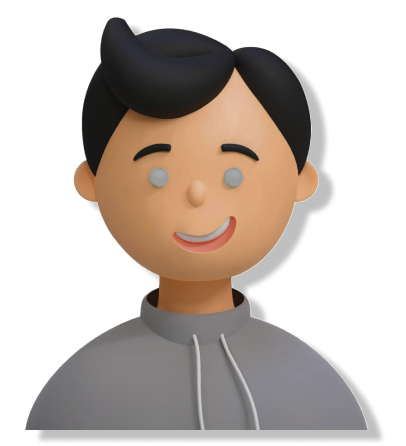
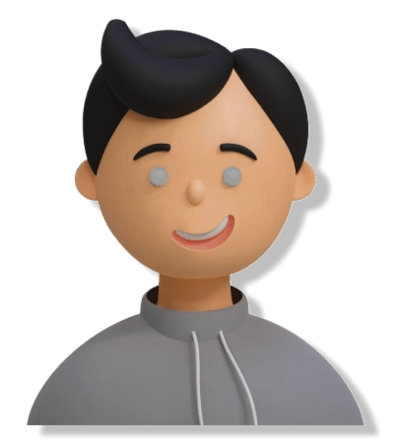
more components/refactorifng

diff --git a/src/components/TechStack.tsx b/src/components/TechStack.tsx
@@ -1,28 +1,12 @@
 "use client";
 
-import {
-  bunJs,
-  code,
-  css,
-  docker,
-  express,
-  git,
-  github2,
-  golang,
-  graphql,
-  html,
-  js,
-  mongodb,
-  nextjs,
-  nodejs,
-  postgres,
-  prisma,
-  react,
-  sass,
-  solidity,
-  tools,
-} from "@/assets";
+import { code, html, tools } from "@/assets";
 import Card from "./Card";
+import { techStack } from "@/data/techStack";
+import { P } from "./ui/P";
+import { Heading } from "./ui/Heading";
+import { Row } from "./ui/Row";
+import Line from "./ui/Line";
 
 function TechStack() {
   return (
@@ -31,55 +15,26 @@ function TechStack() {
         className="h-screen dark:bg-primary-dark bg-primary-light pb-20"
         id="tech-stack"
       >
-        <div className="text-center py-24">
-          <p className="dark:text-secondary-dark text-secondary-light">
+        <div className="py-24">
+          <P theme={"secondary"} align={"center"}>
             Some of my
-          </p>
-          <h1 className="text-[48px] font-[800] leading-normal tracking-[4.8px]">
+          </P>
+          <Heading letterGap={"xl"} align={"center"}>
             TECH STACK
-          </h1>
+          </Heading>
         </div>
 
-        <div className="flex justify-around items-center gap-24 w-[75vw] mx-auto">
+        <Row justify={"center"} align={"center"} gap={"3xl"}>
           <Card
             name="Front End"
             mainIcon={html.src}
-            icons={[
-              { icon: html.src, name: "HTML" },
-              { icon: css.src, name: "CSS" },
-              { icon: sass.src, name: "Sass" },
-              { icon: js.src, name: "JS (TS)" },
-              { icon: react.src, name: "React" },
-              { icon: nextjs.src, name: "Nextjs" },
-            ]}
+            icons={techStack.frontEnd}
           />
-          <Card
-            name="Back End"
-            mainIcon={code.src}
-            icons={[
-              { icon: nodejs.src, name: "Node" },
-              { icon: express.src, name: "Express" },
-              { icon: prisma.src, name: "Prisma" },
-              { icon: graphql.src, name: "Graphql" },
-              { icon: postgres.src, name: "Postgres" },
-              { icon: mongodb.src, name: "MongoDB" },
-            ]}
-          />
-          <Card
-            name="Other"
-            mainIcon={tools.src}
-            icons={[
-              { icon: git.src, name: "Git" },
-              { icon: github2.src, name: "Github" },
-              { icon: docker.src, name: "Docker" },
-              { icon: bunJs.src, name: "Bunjs" },
-              { icon: solidity.src, name: "Solidity" },
-              { icon: golang.src, name: "Golang" },
-            ]}
-          />
-        </div>
+          <Card name="Back End" mainIcon={code.src} icons={techStack.backEnd} />
+          <Card name="Other" mainIcon={tools.src} icons={techStack.other} />
+        </Row>
       </section>
-      <div className="w-screen h-[1px] dark:bg-line-dark bg-line-light" />
+      <Line />
     </>
   );
 }

diff --git a/src/components/About.tsx b/src/components/About.tsx
@@ -3,6 +3,10 @@
 import { meDark, meLight, waveLight, waveDark } from "@/assets";
 import { useThemeContext } from "@/context";
 import { motion } from "framer-motion";
+import { Row } from "./ui/Row";
+import { P } from "./ui/P";
+import { Heading } from "./ui/Heading";
+import Line from "./ui/Line";
 
 function About() {
   const { isDark } = useThemeContext();
@@ -18,7 +22,7 @@ function About() {
           className="w-screen"
           alt="wave"
         />
-        <div className="flex justify-center items-center gap-44">
+        <Row justify={"center"} align={"center"} gap={"3xl"}>
           <motion.div
             initial={{ x: -50, opacity: 0.5 }}
             whileInView={{ x: 0, opacity: 1 }}
@@ -33,30 +37,24 @@ function About() {
             viewport={{ once: true }}
             transition={{ duration: 0.6, delay: 0.2 }}
           >
-            <div className="flex flex-col max-w-[25vw]">
-              <p className="dark:text-secondary-dark text-secondary-light">
-                A little bit
-              </p>
-              <h1 className="text-[48px] font-[800] leading-normal tracking-[4.8px]">
-                ABOUT ME
-              </h1>
-              <p className="dark:text-secondary-dark text-secondary-light">
-                Front-end/back-end developer
-              </p>
+            <Row direction="col" className="max-w-[25vw]">
+              <P theme={"secondary"}>A little bit</P>
+              <Heading letterGap={"xl"}>ABOUT ME</Heading>
+              <P theme={"secondary"}>Front-end/back-end developer</P>
               <br />
-              <p className="text-[20px]">
+              <P size={"xl"}>
                 Lorem ipsum dolor sit amet consectetur adipisicing elit. Fugiat
                 nihil possimus voluptatibus vel. At, id magni, et non asperiores
                 laborum assumenda aliquid blanditiis iusto consectetur, soluta
                 quo nobis totam magnam.
                 <br />
                 Lorem ipsum dolor sit amet consectetur
-              </p>
-            </div>
+              </P>
+            </Row>
           </motion.div>
-        </div>
+        </Row>
       </section>
-      <div className="w-screen h-[1px] dark:bg-line-dark bg-line-light" />
+      <Line />
     </>
   );
 }

diff --git a/src/data/techStack.ts b/src/data/techStack.ts
@@ -1,0 +1,47 @@
+import {
+  bunJs,
+  css,
+  docker,
+  express,
+  git,
+  github2,
+  golang,
+  graphql,
+  html,
+  js,
+  mongodb,
+  nextjs,
+  nodejs,
+  postgres,
+  prisma,
+  react,
+  sass,
+  solidity,
+} from "@/assets";
+
+export const techStack = {
+  frontEnd: [
+    { icon: html.src, name: "HTML" },
+    { icon: css.src, name: "CSS" },
+    { icon: sass.src, name: "Sass" },
+    { icon: js.src, name: "JS (TS)" },
+    { icon: react.src, name: "React" },
+    { icon: nextjs.src, name: "Nextjs" },
+  ],
+  backEnd: [
+    { icon: nodejs.src, name: "Node" },
+    { icon: express.src, name: "Express" },
+    { icon: prisma.src, name: "Prisma" },
+    { icon: graphql.src, name: "Graphql" },
+    { icon: postgres.src, name: "Postgres" },
+    { icon: mongodb.src, name: "MongoDB" },
+  ],
+  other: [
+    { icon: git.src, name: "Git" },
+    { icon: github2.src, name: "Github" },
+    { icon: docker.src, name: "Docker" },
+    { icon: bunJs.src, name: "Bunjs" },
+    { icon: solidity.src, name: "Solidity" },
+    { icon: golang.src, name: "Golang" },
+  ],
+};

diff --git a/src/styles/Home.scss b/src/styles/Home.scss
@@ -1,29 +1,29 @@
 #home {
-    .leftEye, .rightEye{
-        position: absolute;
-        border-radius: 50%;
-        height: 5%;
-        width: 5%;
-        &::after {
-            position: absolute;
-            left: 0;
-            top: 50%;
-            transform: translate(0, -50%);
-            width: 30%;
-            height: 30%;
-            background: #000;
-            border-radius: 50%;
-            content: " ";
-        }
+  .leftEye,
+  .rightEye {
+    position: absolute;
+    border-radius: 50%;
+    height: 5%;
+    width: 5%;
+    &::after {
+      position: absolute;
+      left: 0;
+      top: 50%;
+      transform: translate(0, -50%);
+      width: 30%;
+      height: 30%;
+      background: #000;
+      border-radius: 50%;
+      content: " ";
     }
+  }
 
-    .leftEye {
-        left: 36%;
-        top: 37%;
-    }
-    .rightEye {
-        right: 40%;
-        top: 37%;
-    }
-
+  .leftEye {
+    left: 37%;
+    top: 38%;
+  }
+  .rightEye {
+    right: 40%;
+    top: 38%;
+  }
 }

diff --git a/src/components/Home.tsx b/src/components/Home.tsx
@@ -8,6 +8,7 @@ import { useEffect } from "react";
 import { P } from "./ui/P";
 import { Heading } from "./ui/Heading";
 import { Row } from "./ui/Row";
+import Link from "next/link";
 
 function Home() {
   const { isDark } = useThemeContext();
@@ -45,9 +46,11 @@ function Home() {
               <br />A young full-stack developer from Italy
             </P>
 
-            <button className="dark:bg-secondary-dark bg-secondary-light text-2xl text-black py-4 px-12 rounded-lg">
-              About Me
-            </button>
+            <Link href={"#about"}>
+              <button className="dark:bg-secondary-dark bg-secondary-light text-2xl text-black py-4 px-12 rounded-lg">
+                About Me
+              </button>
+            </Link>
           </Row>
 
           <div className="relative">

diff --git a/src/components/Projects.tsx b/src/components/Projects.tsx
@@ -6,12 +6,13 @@ import { AnimatePresence, motion } from "framer-motion";
 import { PROJECTS } from "@/data/projects";
 import Link from "next/link";
 import { github, url } from "@/assets";
+import Line from "./ui/Line";
 
 function Projects() {
   const [selectedTab, setSelectedTab] = useState(PROJECTS[0]);
 
   return (
-    <>
+    <div>
       <section
         className="min-h-screen dark:bg-primary-dark bg-primary-light pb-20"
         id="projects"
@@ -116,8 +117,8 @@ function Projects() {
           </main>
         </div>
       </section>
-      <div className="w-screen h-[1px] dark:bg-line-dark bg-line-light" />
-    </>
+      <Line />
+    </div>
   );
 }
 

diff --git a/src/components/ui/Heading.tsx b/src/components/ui/Heading.tsx
@@ -5,7 +5,7 @@ import { cn } from "@/lib";
 export const headingVariants = cva("font-bold", {
   variants: {
     variant: {
-      h1: "text-5xl",
+      h1: "text-5xl leading-[1.2]",
       h2: "text-3xl",
       h3: "text-2xl",
       h4: "text-xl",

diff --git a/src/components/ui/Line.tsx b/src/components/ui/Line.tsx
@@ -1,0 +1,7 @@
+import React from "react";
+
+function Line() {
+  return <div className="w-screen h-[1px] dark:bg-line-dark bg-line-light" />;
+}
+
+export default Line;
